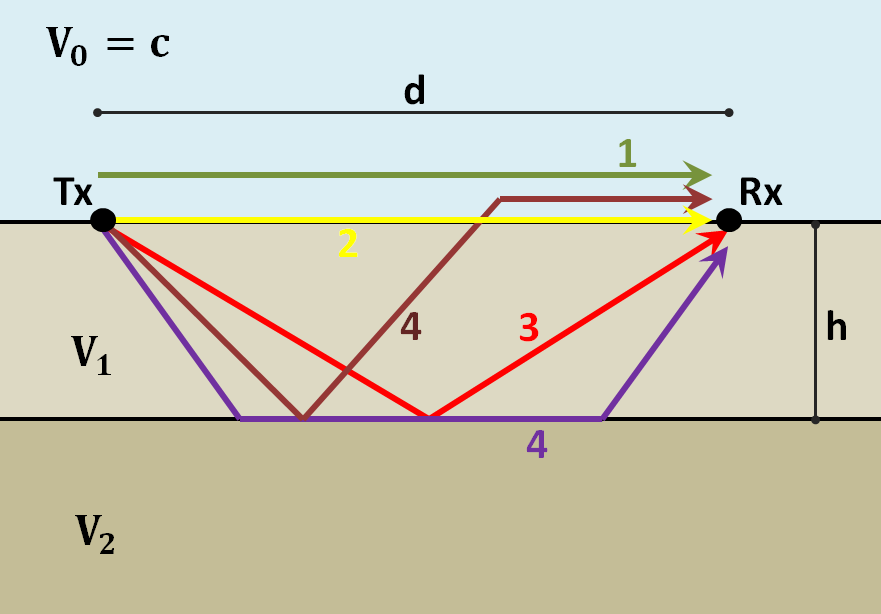
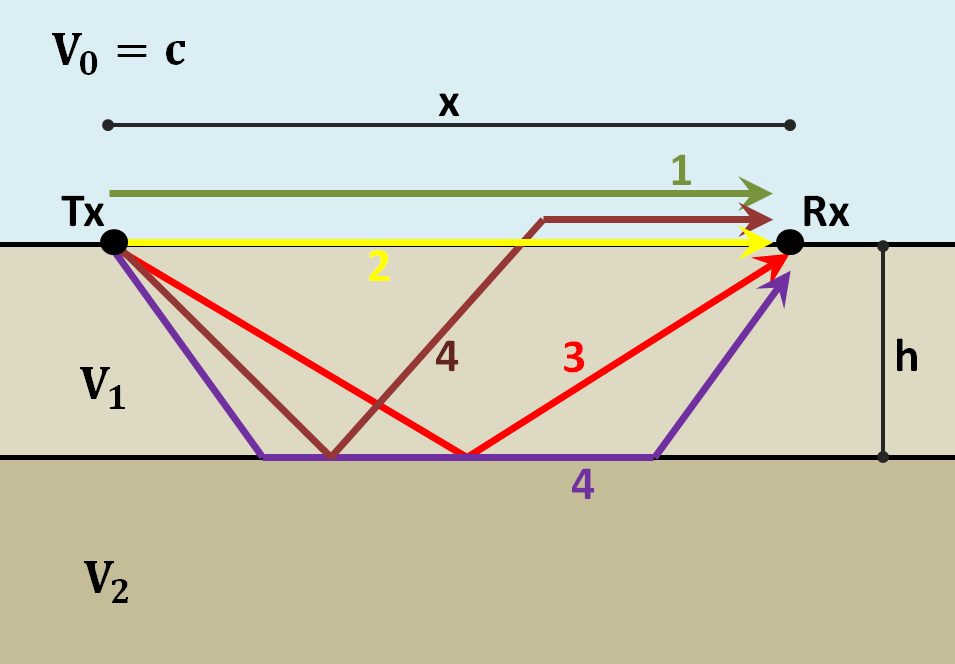
More GPR Edits

diff --git a/content/GPR/GPR_fundamental_principles.rst b/content/GPR/GPR_fundamental_principles.rst
@@ -278,8 +278,8 @@ Additionally the propagation direction of the head wave is characterized by :mat
 
 
 
-Example: Signal Paths for a 2-Layer Earth (:math:`V_1 < V_2`)
-=============================================================
+Example: Signal Paths for a 2-Layer Earth
+=========================================
 
 .. figure:: images_new/GPR_wave_paths_diagram.png
 		:align: right
@@ -291,17 +291,30 @@ Now that we understand the background theory, let's put it all together.
 At :math:`t` = 0 s, the source (Tx) generates a pulse of radio waves.
 As we can see on the right, there are many paths in which radiowaves can take in order to reach the receiver (Rx).
 The propagation velocities, reflections and refractions can all be explained using the equations found above.
+On the right, we have an example of a radargram, which shows the returning signal at increasing distances :math:`x` from the source.
 Let us now try and explain the nature of each ray path.
 
 **Path 1: Direct Air Wave**
 
+
+.. figure:: images_new/GPR_radargram_2layer_example.png
+		:align: right
+		:figwidth: 45%
+
+                Radargram for a 2-layer Earth.
+               
+               
 This was travels through the air in a direct line from the transmitter to the receiver.
 Recall that in the air, radiowaves propagate roughly at the speed of light (:math:`c = 3.00 \times 10^8` m/s).
 As a result, the direct air wave is **always** the first signal measured by the receiver.
 The time it takes this wave to reach the receiver is given by:
 
 .. math::
-	t_{air} = \frac{d}{c}
+	t_{air} = \frac{x}{c}
+
+
+The direct wave is shown in **red** on the radargram.
+According to the above equation, the velocity of the air wave is 1 divided by the slope of this line.
 
 
 **Path 2: Direct Ground Wave**
@@ -312,7 +325,10 @@ Because :math:`V_1 < c`, the ground wave arrives later than the air wave.
 The time it takes for the ground wave to reach the receiver is given by:
 
 .. math::
-	t_{ground} = \frac{d}{V_1}
+	t_{ground} = \frac{x}{V_1}
+
+The direct ground wave is shown in **pink**.
+Like the air wave, the direct ground wave velocity can also be obtained from the slope of the line.
 
 
 **Path 3: Reflected Wave**
@@ -322,7 +338,14 @@ Because it takes a longer path than the direct ground wave, it arrives later.
 The time it takes for the reflected wave to reach the receiver is given by:
 
 .. math::
-	t_{ref} = \frac{\sqrt{d^2 + 4h^2}}{V_1}
+	t_{ref} = \frac{\sqrt{x^2 + 4h^2}}{V_1}
+
+
+The reflected wave is shown in **green**.
+Unlike direct waves, the arrival time for the reflected wave is hyperbolic, which makes it distinguishable from other signals.
+After sufficient distances (:math:`h \ll x`), the previous equation becomes approximately linear.
+This portion of the curve can be used to estimate the velocity of the top-most layer.
+Notice how the slope of the direct ground wave and reflected wave are parallel.
 
 
 **Path 4: Critically Refracted Wave**
@@ -332,7 +355,7 @@ While the radiowave signal propagates along the interface, it travels at velocit
 In general, the time it takes for this wave to reach the receiver is given by:
 
 .. math::
-	t_c = \frac{d}{V_2} + \textrm{Constant}
+	t_c = \frac{x}{V_2} + \textrm{Constant}
 
 
 It is important to note several things about the critically refracted wave:
@@ -342,6 +365,11 @@ It is important to note several things about the critically refracted wave:
 	- At sufficient distances, the critically refracted wave will arrive first.
 
 
+Notice that the arrival time for the critically refracted wave is also linear.
+As a result, the critical wave signal could be used to determine the propagation velocity of the lower layer.
+In this radargram example, we cannot easily see the critically refracted wave.
+
+
 **Path 5: Critically Refracted at Surface**
 
 Because :math:`V_1 < c`, reflected waves can be critically refracted at the surface.
@@ -349,10 +377,17 @@ While this wave propagates along the surface interface, it will have velocity :m
 In general, the time it takes for this wave to reach the receiver is given by:
 
 .. math::
-	t_c = \frac{d}{c} + \textrm{Constant}
+	t_c = \frac{x}{c} + \textrm{Constant}
 
 
 Like the previously mentioned critically refracted wave, this wave may also be measured before or after other waves, depending on the problem geometries and the velocities of each medium.
+
+
+
+
+
+
+
 
 
 
